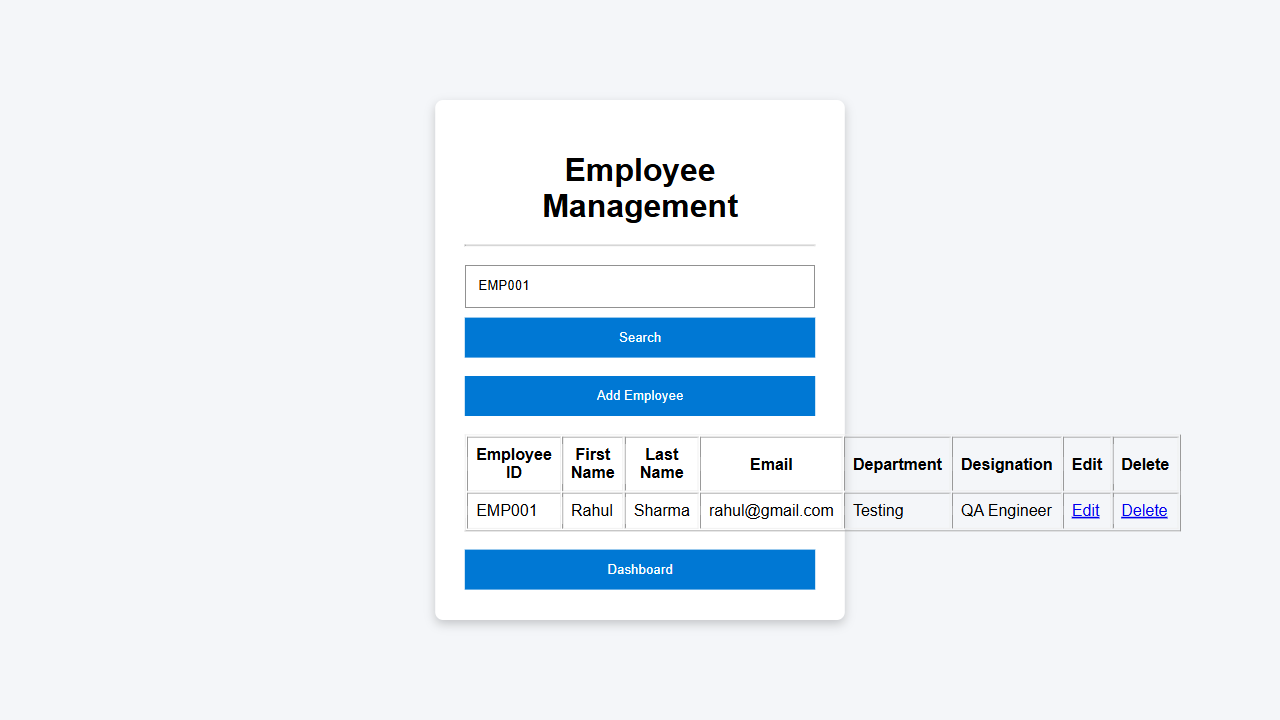
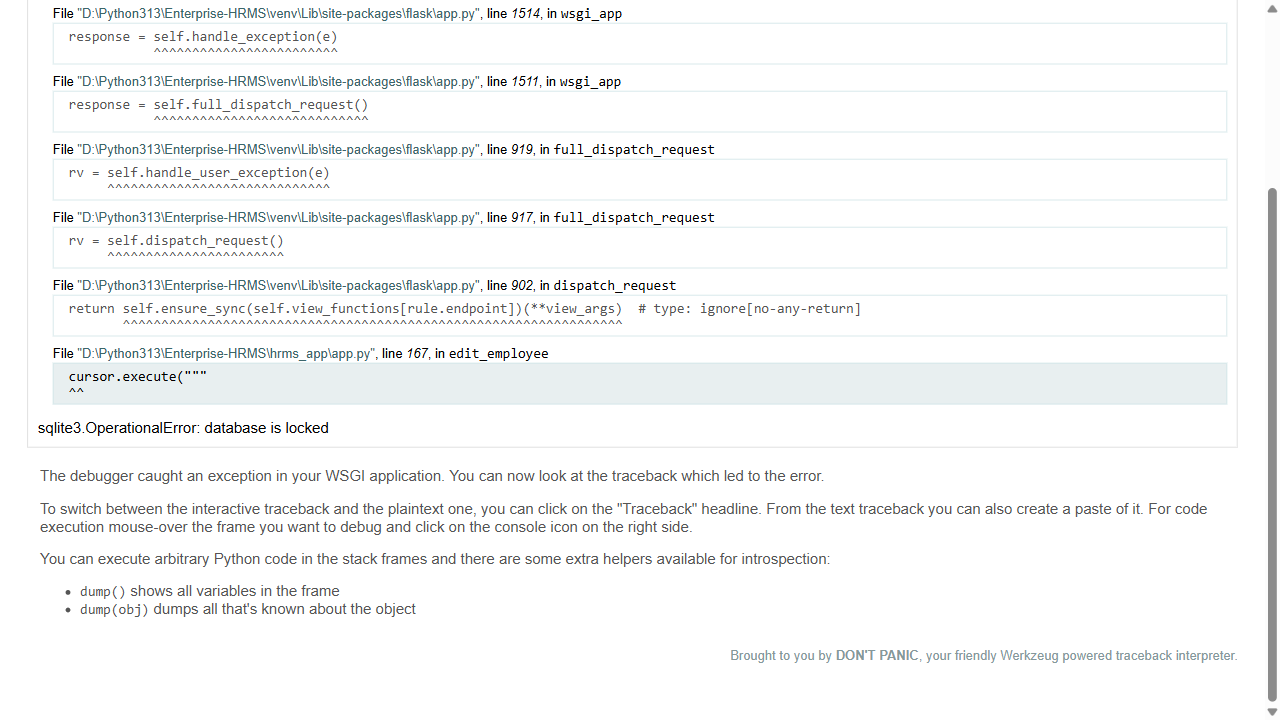
Validated both the UI and the Database

diff --git a/automation_framework/reports/report.html b/automation_framework/reports/report.html
@@ -328,7 +328,7 @@ div.media {
   </head>
   <body>
     <h1 id="title">report.html</h1>
-    <p>Report generated on 27-Jul-2026 at 22:28:55 by <a href="https://pypi.python.org/pypi/pytest-html">pytest-html</a>
+    <p>Report generated on 30-Jul-2026 at 11:04:22 by <a href="https://pypi.python.org/pypi/pytest-html">pytest-html</a>
         v4.2.0</p>
     <div id="environment-header">
       <h2>Environment</h2>
@@ -383,7 +383,7 @@ div.media {
         <h2>Summary</h2>
         <div class="additional-summary prefix">
         </div>
-        <p class="run-count">1 test took 46 ms.</p>
+        <p class="run-count">1 test took 00:00:03.</p>
         <p class="filter">(Un)check the boxes to filter the results.</p>
         <div class="summary__reload">
           <div class="summary__reload__button hidden" onclick="location.reload()">
@@ -431,7 +431,7 @@ div.media {
       </thead>
     </table>
   <footer>
-    <div id="data-container" data-jsonblob="{&#34;environment&#34;: {&#34;Python&#34;: &#34;3.13.14&#34;, &#34;Platform&#34;: &#34;Windows-11-10.0.26200-SP0&#34;, &#34;Packages&#34;: {&#34;pytest&#34;: &#34;9.1.1&#34;, &#34;pluggy&#34;: &#34;1.6.0&#34;}, &#34;Plugins&#34;: {&#34;html&#34;: &#34;4.2.0&#34;, &#34;metadata&#34;: &#34;3.1.1&#34;}}, &#34;tests&#34;: {&#34;tests/test_get_employee.py::test_get_employee&#34;: [{&#34;extras&#34;: [], &#34;result&#34;: &#34;Passed&#34;, &#34;testId&#34;: &#34;tests/test_get_employee.py::test_get_employee&#34;, &#34;duration&#34;: &#34;2 ms&#34;, &#34;resultsTableRow&#34;: [&#34;&lt;td class=\&#34;col-result\&#34;&gt;Passed&lt;/td&gt;&#34;, &#34;&lt;td class=\&#34;col-testId\&#34;&gt;tests/test_get_employee.py::test_get_employee&lt;/td&gt;&#34;, &#34;&lt;td class=\&#34;col-duration\&#34;&gt;2 ms&lt;/td&gt;&#34;, &#34;&lt;td class=\&#34;col-links\&#34;&gt;&lt;/td&gt;&#34;], &#34;log&#34;: &#34;No log output captured.&#34;}]}, &#34;renderCollapsed&#34;: [&#34;passed&#34;], &#34;initialSort&#34;: &#34;result&#34;, &#34;title&#34;: &#34;report.html&#34;}"></div>
+    <div id="data-container" data-jsonblob="{&#34;environment&#34;: {&#34;Python&#34;: &#34;3.13.14&#34;, &#34;Platform&#34;: &#34;Windows-11-10.0.26200-SP0&#34;, &#34;Packages&#34;: {&#34;pytest&#34;: &#34;9.1.1&#34;, &#34;pluggy&#34;: &#34;1.6.0&#34;}, &#34;Plugins&#34;: {&#34;html&#34;: &#34;4.2.0&#34;, &#34;metadata&#34;: &#34;3.1.1&#34;}}, &#34;tests&#34;: {&#34;tests/test_delete_employee.py::test_delete_employee[EMP001]&#34;: [{&#34;extras&#34;: [], &#34;result&#34;: &#34;Passed&#34;, &#34;testId&#34;: &#34;tests/test_delete_employee.py::test_delete_employee[EMP001]&#34;, &#34;duration&#34;: &#34;00:00:03&#34;, &#34;resultsTableRow&#34;: [&#34;&lt;td class=\&#34;col-result\&#34;&gt;Passed&lt;/td&gt;&#34;, &#34;&lt;td class=\&#34;col-testId\&#34;&gt;tests/test_delete_employee.py::test_delete_employee[EMP001]&lt;/td&gt;&#34;, &#34;&lt;td class=\&#34;col-duration\&#34;&gt;00:00:03&lt;/td&gt;&#34;, &#34;&lt;td class=\&#34;col-links\&#34;&gt;&lt;/td&gt;&#34;], &#34;log&#34;: &#34;------------------------------ Captured log call -------------------------------\nINFO     HRMS:login_page.py:21 Opened HRMS Login page\nINFO     HRMS:login_page.py:27 Entered Username\nINFO     HRMS:login_page.py:32 Entered Password\nINFO     HRMS:login_page.py:38 Clicked Login Button\nINFO     HRMS:login_page.py:46 Login successful\nINFO     HRMS:dashboard_page.py:17 Clicked Employee Management\nINFO     HRMS:employee_page.py:24 Searching Employee EMP001\n\n&#34;}]}, &#34;renderCollapsed&#34;: [&#34;passed&#34;], &#34;initialSort&#34;: &#34;result&#34;, &#34;title&#34;: &#34;report.html&#34;}"></div>
     <script>
       (function(){function r(e,n,t){function o(i,f){if(!n[i]){if(!e[i]){var c="function"==typeof require&&require;if(!f&&c)return c(i,!0);if(u)return u(i,!0);var a=new Error("Cannot find module '"+i+"'");throw a.code="MODULE_NOT_FOUND",a}var p=n[i]={exports:{}};e[i][0].call(p.exports,function(r){var n=e[i][1][r];return o(n||r)},p,p.exports,r,e,n,t)}return n[i].exports}for(var u="function"==typeof require&&require,i=0;i<t.length;i++)o(t[i]);return o}return r})()({1:[function(require,module,exports){
 const { getCollapsedCategory, setCollapsedIds } = require('./storage.js')

diff --git a/automation_framework/tests/test_add_employee.py b/automation_framework/tests/test_add_employee.py
@@ -3,14 +3,26 @@ from pages.dashboard_page import DashboardPage
 from pages.add_employee_page import AddEmployeePage
 from config.config import Config
 
+from utilities.database_helper import employee_exists, get_employee
+
+
 
 def test_add_employee(page):
 
     login = LoginPage(page)
-
     dashboard = DashboardPage(page)
-
     add_employee = AddEmployeePage(page)
+
+
+    # Test data
+
+    employee_id = "EMP010"
+    first_name = "Rohit"
+    last_name = "Sharma"
+    email = "rohit@hitman.com"
+    department = "IT"
+    designation = "Software Engineer"
+
 
     login.open_application()
 
@@ -20,19 +32,37 @@ def test_add_employee(page):
         Config.PASSWORD
     )
 
-    
+
     dashboard.click_employee_management()
 
     add_employee.click_add_employee()
 
 
     add_employee.add_employee(
-        "EMP010",
-        "Rohit",
-        "Sharma",
-        "rohit@hitman.com",
-        "IT",
-        "Software Engineer"
+        employee_id,
+        first_name,
+        last_name,
+        email,
+        department,
+        designation
     )
+
+
+    # Database Validation
+
+    assert employee_exists(employee_id)
+
+
+    employee = get_employee(employee_id)
+    
+
+    assert employee is not None
+    assert employee[1] == employee_id
+    assert employee[2] == first_name
+    assert employee[3] == last_name
+    assert employee[4] == email
+    assert employee[5] == department
+    assert employee[6] == designation
+
 
     page.wait_for_timeout(3000)

diff --git a/automation_framework/tests/test_edit_employee.py b/automation_framework/tests/test_edit_employee.py
@@ -7,6 +7,7 @@ from pages.edit_employee_page import EditEmployeePage
 
 
 from utilities.csv_reader import read_csv
+from utilities.database_helper import get_employee
 
 
 test_data = read_csv(
@@ -56,6 +57,12 @@ def test_edit_employee(
 
     edit.click_update()
 
+    page.wait_for_url("**/employees")
+
+    # print(page.url)
+    # print(page.title())
+    
+
     employee.search_employee(employee_id)
 
     # assert employee_id in page.content()
@@ -79,3 +86,18 @@ def test_edit_employee(
     assert email in table_text
     assert department in table_text
     assert designation in table_text
+
+
+
+    # Database validation
+
+    db_employee = get_employee(employee_id)
+
+    assert db_employee is not None
+
+    assert db_employee[1] == employee_id
+    assert db_employee[2] == first_name
+    assert db_employee[3] == last_name
+    assert db_employee[4] == email
+    assert db_employee[5] == department
+    assert db_employee[6] == designation

diff --git a/automation_framework/tests/test_delete_employee.py b/automation_framework/tests/test_delete_employee.py
@@ -7,6 +7,7 @@ from pages.delete_employee_page import DeleteEmployeePage
 
 
 from utilities.csv_reader import read_csv
+from utilities.database_helper import employee_exists
 
 
 test_data = read_csv(
@@ -36,5 +37,10 @@ def test_delete_employee(page, employee_id):
 
     page.wait_for_load_state("networkidle")
 
-
+    # UI validation
+    
     assert employee_id not in page.content()
+
+    # Database Validation
+
+    assert not employee_exists(employee_id)

diff --git a/automation_framework/pages/employee_page.py b/automation_framework/pages/employee_page.py
@@ -15,6 +15,8 @@ class EmployeePage:
 
     def search_employee(self, employee_id):
 
+        self.page.wait_for_selector(self.search_box)
+
         self.page.fill(self.search_box, employee_id)
 
         self.page.click(self.search_button)
